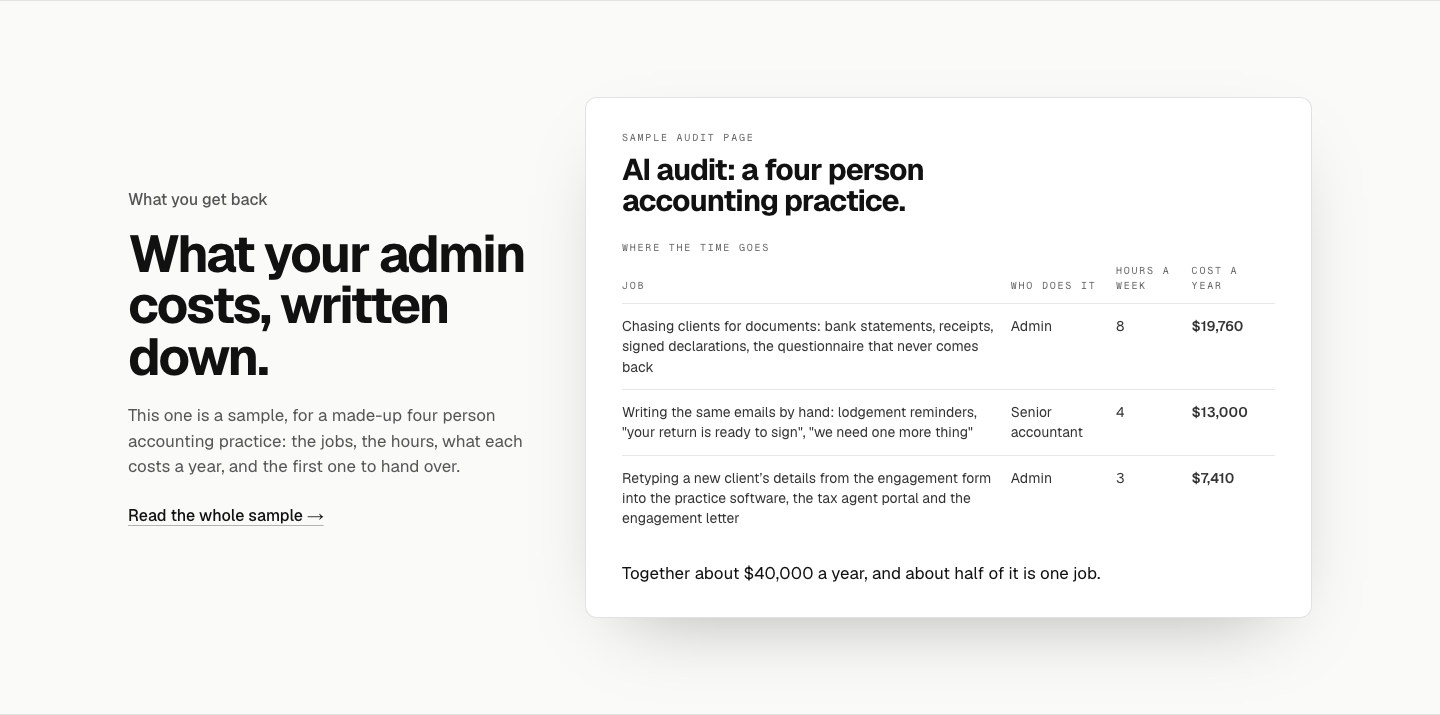
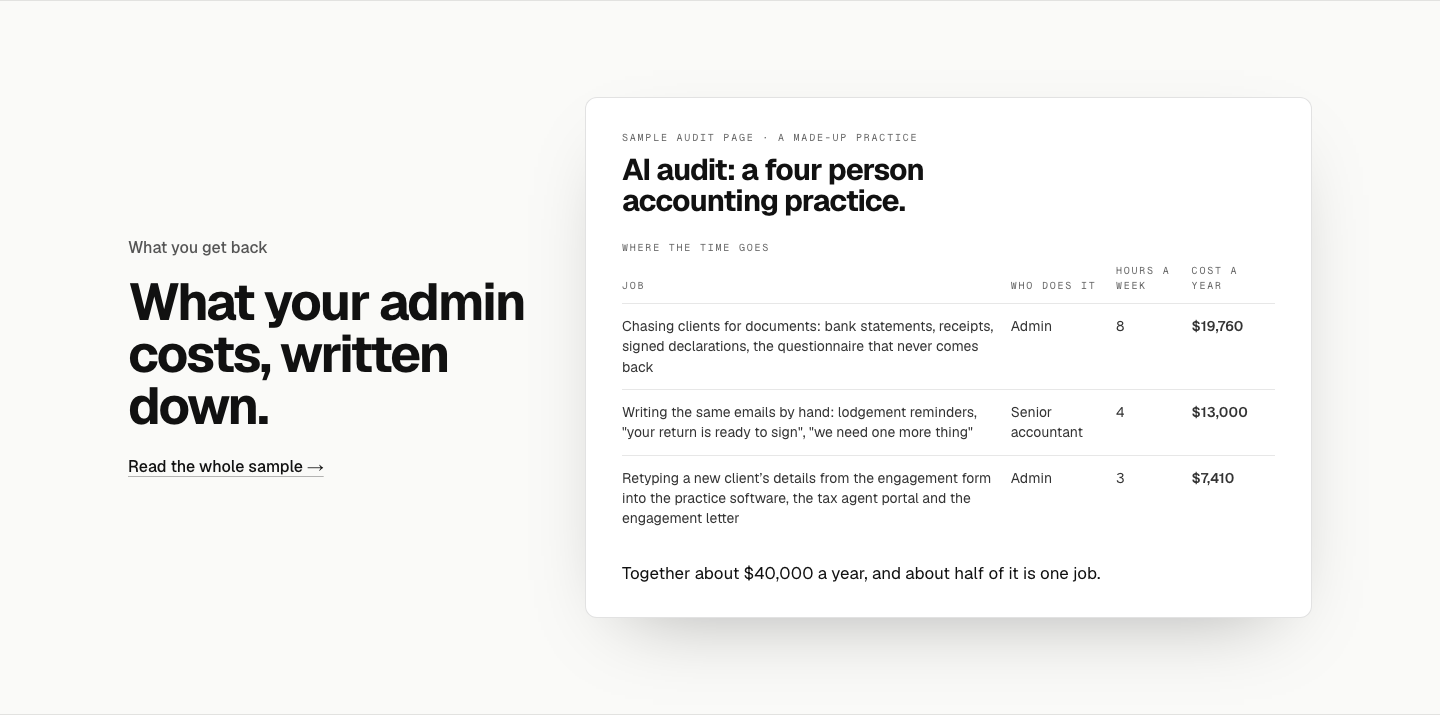
pilot how it works: the fourteen days as a timeline

Changed region(s): [[0.0938, 0.2769, 0.375, 0.6769], [0.0938, 0.7077, 0.2188, 0.7385], [0.5938, 0.1846, 0.625, 0.2154]]

diff --git a/herbertai-website/src/app/pilot/page.js b/herbertai-website/src/app/pilot/page.js
@@ -84,10 +84,14 @@ const TERMS = [
   ['Yours', 'To keep, either way'],
 ]
 
+// How it works as a timeline: one line from the audit to day 14, the build
+// marked in fourteen ticks (Will, 22 Oct 2026, layout "1"). Facts are the old
+// three steps' and the hero's terms; the audit's is the hero intro's.
 const STEPS = [
-  { n: 'Step 1', title: 'The free AI audit', facts: ['45 minutes auditing your business', 'A written page in two business days', 'The three jobs costing you most, in your figures'] },
-  { n: 'Step 2', title: 'Your first AI employee, built', facts: ['Built around the tools you already use', 'One job and a name, say an AI document chaser', 'A progress update, not a project plan'] },
-  { n: 'Step 3', title: 'Live on day 14', facts: ['Your team uses it the same day', 'A walkthrough so everyone knows how', 'A twelve month roadmap of the next jobs'] },
+  { when: '45 minutes', title: 'The free AI audit', facts: ['How your business runs and where the hours go'] },
+  { when: 'Within two business days', title: 'Your written page', facts: ['The three jobs costing you most, in your figures', 'Yours to keep either way'] },
+  { when: '14 days from your go', title: 'Your first AI employee, built', facts: ['Built around the tools you already use', 'One job and a name, say an AI document chaser', 'A progress update, not a project plan'], build: true },
+  { when: 'Day 14', title: 'Live', facts: ['Your team uses it the same day', 'A walkthrough so everyone knows how', 'A twelve month roadmap of the next jobs'] },
 ]
 
 const FIXES = [
@@ -132,6 +136,35 @@ function Section({ children, first = false }) {
 // beside it is, so a screen reader does not hear the table as link text.
 const SHEET_LABEL = 'font-mono text-[10px] uppercase tracking-[0.18em] text-[#666]'
 const SHEET_CELL = 'py-3 pr-4 border-t border-[#111]/10 text-[14px] leading-[1.45] text-[#333] align-top'
+
+// Vertical on phones and tablets (the line down the left), across the section
+// from 1024px (the line along the top). The line stops at the last stop.
+function Timeline() {
+  return (
+    <ol className="mt-12 lg:mt-14 grid lg:grid-cols-[0.8fr_1fr_1.6fr_1fr]">
+      {STEPS.map((st) => (
+        <li key={st.title} className="group relative min-w-0 pl-9 pb-9 last:pb-0 lg:pl-0 lg:pb-0 lg:pt-[22px] lg:pr-7">
+          <span aria-hidden className="absolute left-[5px] top-2 bottom-0 w-[2px] bg-[#111] group-last:hidden lg:left-0 lg:right-0 lg:top-0 lg:bottom-auto lg:w-auto lg:h-[2px]" />
+          <span aria-hidden className="absolute left-0 top-[3px] w-3 h-3 rounded-full bg-[#111] lg:top-[-5px]" />
+          {st.build && (
+            <span aria-hidden className="hidden lg:flex absolute left-0 right-0 -top-[13px] h-3 items-end">
+              {Array.from({ length: 14 }, (_, d) => (
+                <span key={d} className={`flex-1 border-l ${d === 0 || d === 13 ? 'h-3 border-[#111]/50' : 'h-[7px] border-[#111]/20'}`} />
+              ))}
+            </span>
+          )}
+          <p className="text-[16px] font-medium text-[#777] leading-[1.2] mb-2 lg:mb-3.5">{st.when}</p>
+          <h3 className="text-[22px] lg:text-[24px] font-semibold tracking-[-0.02em] mb-2.5">{st.title}</h3>
+          <ul>
+            {st.facts.map((f) => (
+              <li key={f} className="text-[17px] leading-[1.45] text-[#444] py-2 border-t border-[#111]/8">{f}</li>
+            ))}
+          </ul>
+        </li>
+      ))}
+    </ol>
+  )
+}
 
 function ReadSample() {
   return (
@@ -263,19 +296,7 @@ export default function Pilot() {
       <Section>
         <Label>How it works</Label>
         <H2>Audit first. Then fourteen days.</H2>
-        <div className="mt-12 grid md:grid-cols-3 gap-10 lg:gap-12">
-          {STEPS.map((st) => (
-            <div key={st.n} className="border-t border-[#111]/15 pt-6">
-              <p className="text-[16px] font-medium text-[#777] mb-5">{st.n}</p>
-              <h3 className="text-[24px] font-semibold tracking-[-0.02em] mb-3">{st.title}</h3>
-              <ul>
-                {st.facts.map((f) => (
-                  <li key={f} className="text-[17px] leading-[1.45] text-[#444] py-2 border-t border-[#111]/8">{f}</li>
-                ))}
-              </ul>
-            </div>
-          ))}
-        </div>
+        <Timeline />
       </Section>
 
       {/* 4. What it fixes. */}

diff --git a/herbertai-website/docs/design/design-pass-site-2026-09.md b/herbertai-website/docs/design/design-pass-site-2026-09.md
@@ -2356,7 +2356,7 @@ memory records the third slip. From here /pilot runs section by section:
 |---|---|---|---|---|---|---|
 | 1. Hero with the form | [x] | [x] | [x] | [x] | [x] | Done 22 Oct 2026: heading, label, intro, terms, the form side, spacing (fills the first screen, card level with the heading), the phone layout (a jump button under the intro) |
 | 2. The written page | [x] | [x] | [x] | [x] | [x] | Done 22 Oct 2026: the live sheet, text centred against it, no line under the heading, label kept, the link under the sheet on phones |
-| 3. How it works | [x] | [ ] | [ ] | [x] | [~] | Heading options out (detail 4); the layout never drawn three ways |
+| 3. How it works | [x] | [x] | [x] | [x] | [ ] | Timeline built 22 Oct 2026 (layout 1); next its details pass |
 | 4. What it fixes | [ ] | [ ] | [ ] | [x] | [ ] | Built from the skeleton only |
 | 5. After the pilot | [ ] | [ ] | [ ] | [x] | [ ] | Built from the skeleton only |
 | 6. Questions | [ ] | [ ] | [ ] | [x] | [ ] | Built from the skeleton only |
@@ -2564,3 +2564,10 @@ three white cards with large numbers. Facts are today’s STEPS and the hero’s
 terms; the audit’s fact is the hero intro’s "how your business runs and where
 the hours go". The pending 20 Oct heading options (details 4 of 9) wait for
 this section’s details pass. Awaiting Will’s pick.
+Will (22 Oct 2026): "1". Built: `Timeline` in pilot/page.js, an ordered list
+of four stops from the new STEPS (when, title, facts), the line along the top
+from 1024px with fourteen ticks over the build, down the left below that; the
+line stops at the last stop. Verified at 1440, 1280, 1024, 768, 375 and 320,
+motion on and off: the segments meet end to end at each width, 14 ticks on
+laptops and none on phones, no overflow, no console errors. Next: section 3’s
+details pass (the heading options from 20 Oct among them).
